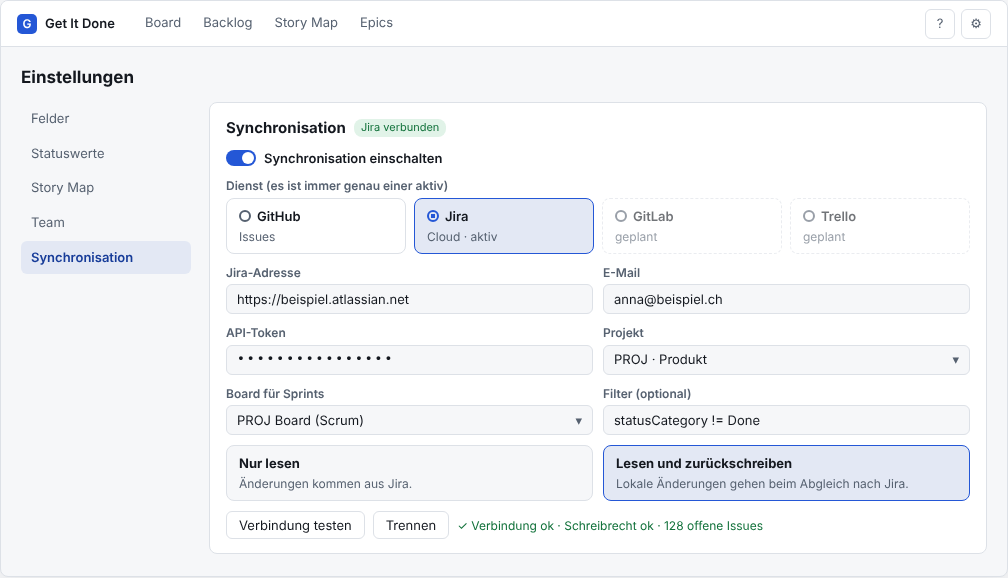
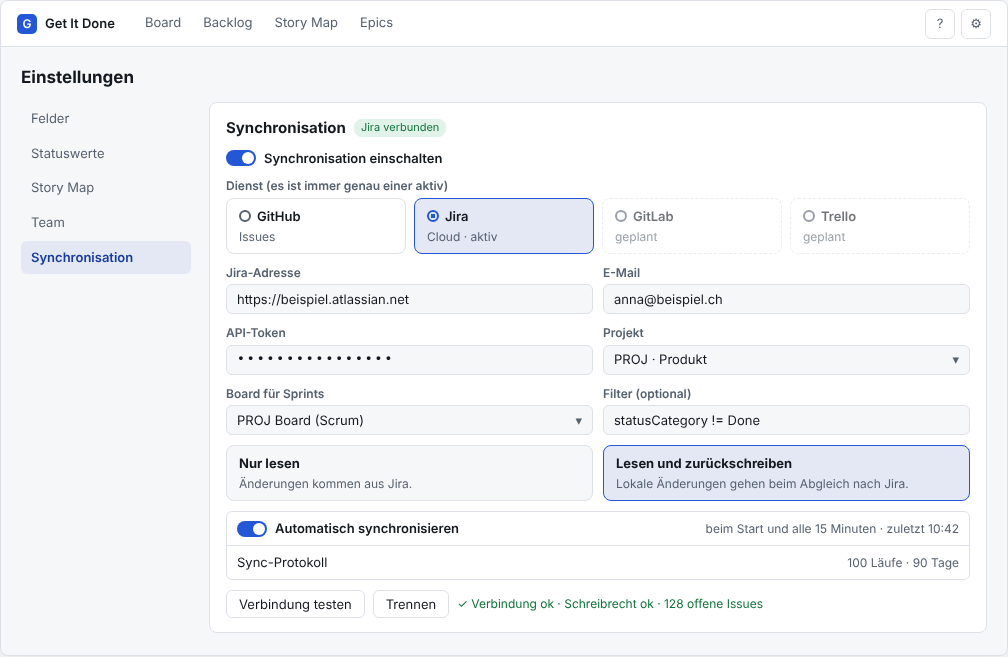
Align the Jira sync design with the merged GitHub sync (#66)
Claude-Session: https://claude.ai/code/session_0113Yc3htBf9XpUac9trF1qP

diff --git a/docs/design/jira-sync-variants.html b/docs/design/jira-sync-variants.html
@@ -207,6 +207,10 @@ tr:last-child td { border-bottom: 0; }
               <div class="opt"><b>Nur lesen</b><span class="note">Änderungen kommen aus Jira.</span></div>
               <div class="opt opt--on"><b>Lesen und zurückschreiben</b><span class="note">Lokale Änderungen gehen beim Abgleich nach Jira.</span></div>
             </div>
+            <div class="rows">
+              <div class="row"><span class="sw on grow"><i></i>Automatisch synchronisieren</span><span class="note">beim Start und alle 15 Minuten · zuletzt 10:42</span></div>
+              <div class="row"><span class="grow">Sync-Protokoll</span><span class="note">100 Läufe · 90 Tage</span></div>
+            </div>
             <div class="actions"><span class="btn">Verbindung testen</span><span class="btn">Trennen</span><span class="okline">✓ Verbindung ok · Schreibrecht ok · 128 offene Issues</span></div>
           </div>
         </div></div></div></div>
@@ -394,7 +398,7 @@ tr:last-child td { border-bottom: 0; }
 <section class="sec" id="integration">
   <span class="eyebrow">Integration</span>
   <h2>Wie Jira an den bestehenden Sync andockt</h2>
-  <p>Die GitHub-Anbindung steckt in Pull Request #62 und ist noch nicht ausgeliefert. Der Motor ist allgemein gedacht (ADR 0005), die Namen im Code sind aber GitHub-spezifisch (<code>github.*</code> in den Einstellungen, <code>stories.github_*</code>, <code>GithubIssue</code>) und die Label-Regeln für Epics und Status liegen im gemeinsamen Teil. Das muss zuerst allgemein werden.</p>
+  <p>Der GitHub-Sync ist gemerged (#62, ADR 0005 angenommen), mit automatischem Abgleich, Toast und Protokoll. Der Motor ist allgemein gedacht, die Namen und Daten im Code sind aber GitHub-spezifisch und <b>schon ausgeliefert</b>: Einstellung <code>github.*</code> (inklusive Auto-Sync und Log), Funktion <code>github</code>, Spalten <code>stories.github_*</code> (Migration 015), rund 2900 Zeilen in <code>src/github</code> und <code>domain/github.ts</code>, ein einziger Schlüsselbund-Eintrag für das Token. Die Label-Regeln für Epics und Status liegen im gemeinsamen Teil. Das muss allgemein werden, und dafür braucht es jetzt eine Datenmigration.</p>
   <div class="layers">
     <div class="layer"><b>Oberfläche</b><span class="note">Einstellungen „Synchronisation“ (Dienst wählen) · Sync-Zeichen auf Backlog, Board, Story Map · Toast und Log · Schlüssel-Badge</span></div>
     <div class="arrow">↓</div>
@@ -413,9 +417,10 @@ tr:last-child td { border-bottom: 0; }
 
   <div class="cards">
     <div class="box"><b>Anmeldung</b><span>Jira Cloud: Adresse, E-Mail und API-Token (Basic). OAuth 2.0 braucht eine registrierte App und einen Rückruf, das passt nicht zu einer lokalen App und kommt später, falls gewünscht. Die Atlassian-API-Tokens laufen ab, die App muss das als Fehler „Token abgelaufen“ erklären. Jira Data Center (Personal Access Token, API-Version 2) kommt später.</span></div>
+    <div class="box"><b>Automatischer Abgleich</b><span>Der Auto-Sync (Start, Rückkehr, alle 15 Minuten, Pause nach drei Fehlern) und das Protokoll gelten für beide Dienste. Für Jira fragt ein Lauf nur nach Vorgängen, die seit dem letzten Lauf geändert wurden (mit Überlappung), und holt die volle Liste nur beim ersten Mal und gelegentlich. Das schont die neuen Limits.</span></div>
     <div class="box"><b>Netzwerk und Browser</b><span>Direkte Browser-Anfragen an Jira Cloud scheitern an CORS. Echter Abgleich läuft deshalb nur in der Windows-App. Die Web-Vorschau nutzt ein simuliertes Jira mit Workflow, Epics, Versionen und Sprints. Die Entscheidung ist ein ADR.</span></div>
     <div class="box"><b>API-Besonderheiten</b><span>Suche über <code>/rest/api/3/search/jql</code> mit Seitenmarke und ohne Gesamtzahl (die alte Suche ist abgeschaltet). „Seit“-Abfragen per JQL <code>updated &gt;=</code> nur auf die Minute genau, darum ein Überlappungsfenster und Vergleich mit der Basis. Anfragen können mit 429 und <code>Retry-After</code> abgewiesen werden, Atlassian stellt 2026 auf punktebasierte Limits um. Details noch zu prüfen.</span></div>
-    <div class="box"><b>Daten im Code</b><span>Eine Verknüpfung je Story (<code>sync_link</code>: Dienst, Schlüssel, Adresse, Basis) statt <code>github_*</code>. Einstellungen <code>sync.service</code> (<code>github</code>, <code>jira</code> oder leer) und eine Verbindung je Dienst. Eine Migration überführt die Felder aus #62 vor der Auslieferung.</span></div>
+    <div class="box"><b>Daten im Code</b><span>Eine Verknüpfung je Story (<code>sync_link</code>: Dienst, Schlüssel, Adresse, Basis) statt <code>github_*</code>. Einstellungen <code>sync.service</code> (<code>github</code>, <code>jira</code> oder leer) und eine Verbindung je Dienst. Eine neue Migration (016) kopiert die ausgelieferten Felder und Einstellungen um; Protokoll und Auto-Sync wandern mit.</span></div>
     <div class="box"><b>Löschen</b><span>GitHub-Labels und -Milestones, die der Sync selbst angelegt hat, werden wieder gelöscht (AC16 in #30). Bei Jira schlägt die Empfehlung vor, nichts zu löschen und nur Fehlendes anzulegen, weil Löschen dort zerstörend ist und Rechte braucht.</span></div>
     <div class="box"><b>Tests und Abnahme</b><span>Dieselbe Anschluss-Testreihe wie bei GitHub, dazu ein Fake-Jira. Kein echtes Jira in der CI. Für die Abnahme braucht der PO eine Jira-Cloud-Testinstanz (der kostenlose Tarif reicht) und die Windows-App.</span></div>
   </div>
@@ -437,8 +442,8 @@ tr:last-child td { border-bottom: 0; }
   <div class="tablewrap"><table>
     <thead><tr><th>Schritt</th><th>Inhalt</th></tr></thead>
     <tbody>
-      <tr><td>0 · Allgemein machen</td><td>Neutrales Modell, Fähigkeiten, <code>sync_link</code>, Dienstwahl in den Einstellungen, GitHub-Label-Regeln in den GitHub-Anschluss. Kein neues Verhalten, alle GitHub-Tests bleiben grün.</td></tr>
-      <tr><td><span class="ph1">1</span> Kern</td><td>Verbinden, importieren, Titel, Beschreibung, Labels, Status per Übergang, Kriterien, Schlüssel und Link, Roundtrip, Konflikte, Log</td></tr>
+      <tr><td>0 · Allgemein machen</td><td>Neutrales Modell, Fähigkeiten, <code>sync_link</code> mit Migration 016, Dienstwahl in den Einstellungen, Schlüsselbund je Dienst, GitHub-Label-Regeln in den GitHub-Anschluss, <code>src/github</code> wird <code>src/sync</code>. Kein neues Verhalten, alle GitHub-Tests bleiben grün.</td></tr>
+      <tr><td><span class="ph1">1</span> Kern</td><td>Verbinden, importieren, Titel, Beschreibung, Labels, Status per Übergang, Kriterien, Schlüssel und Link, Roundtrip, Konflikte. Auto-Sync, Toast und Protokoll gelten sofort mit (für Jira mit Abfrage „seit der letzten Änderung“ statt voller Liste).</td></tr>
       <tr><td><span class="ph2">2</span> Story Map</td><td>Epics und Fix-Versionen</td></tr>
       <tr><td><span class="ph3">3</span> Planung</td><td>Sprints, Story Points, Reihenfolge</td></tr>
       <tr><td><span class="ph4">4</span> Weiteres</td><td>Zuständige, Verknüpfungen, Unteraufgaben; Data Center</td></tr>
